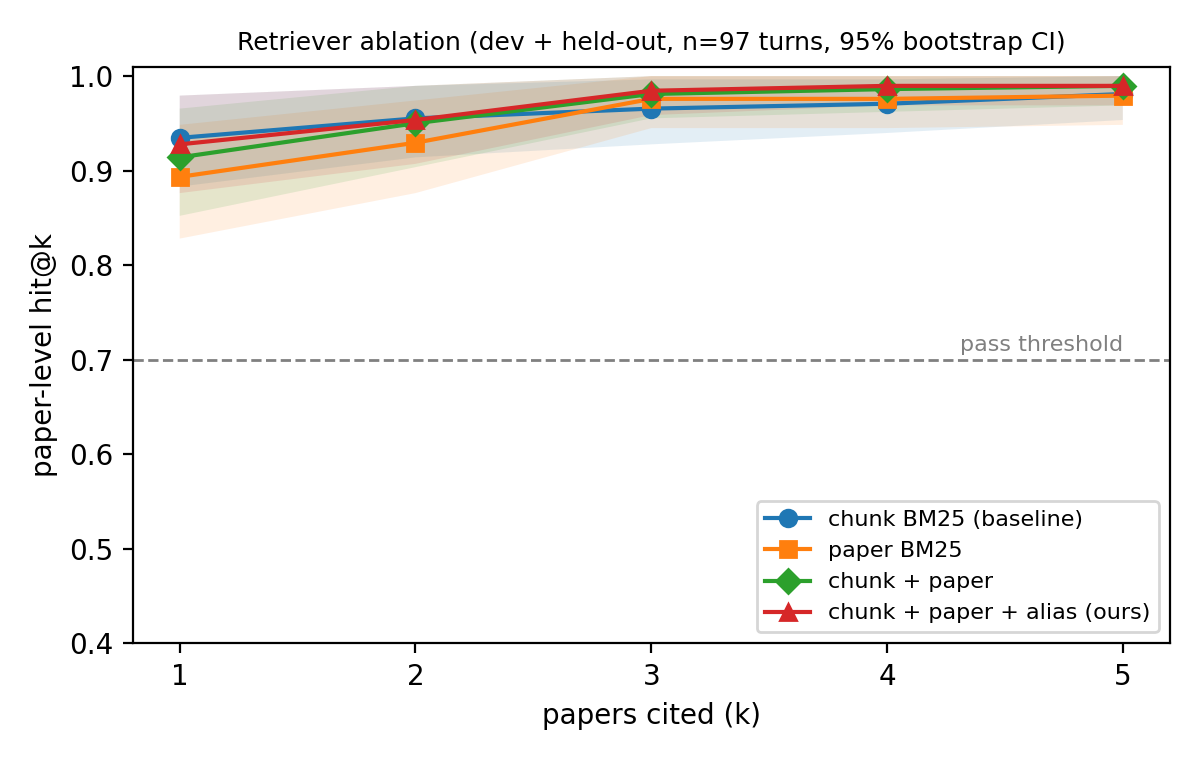
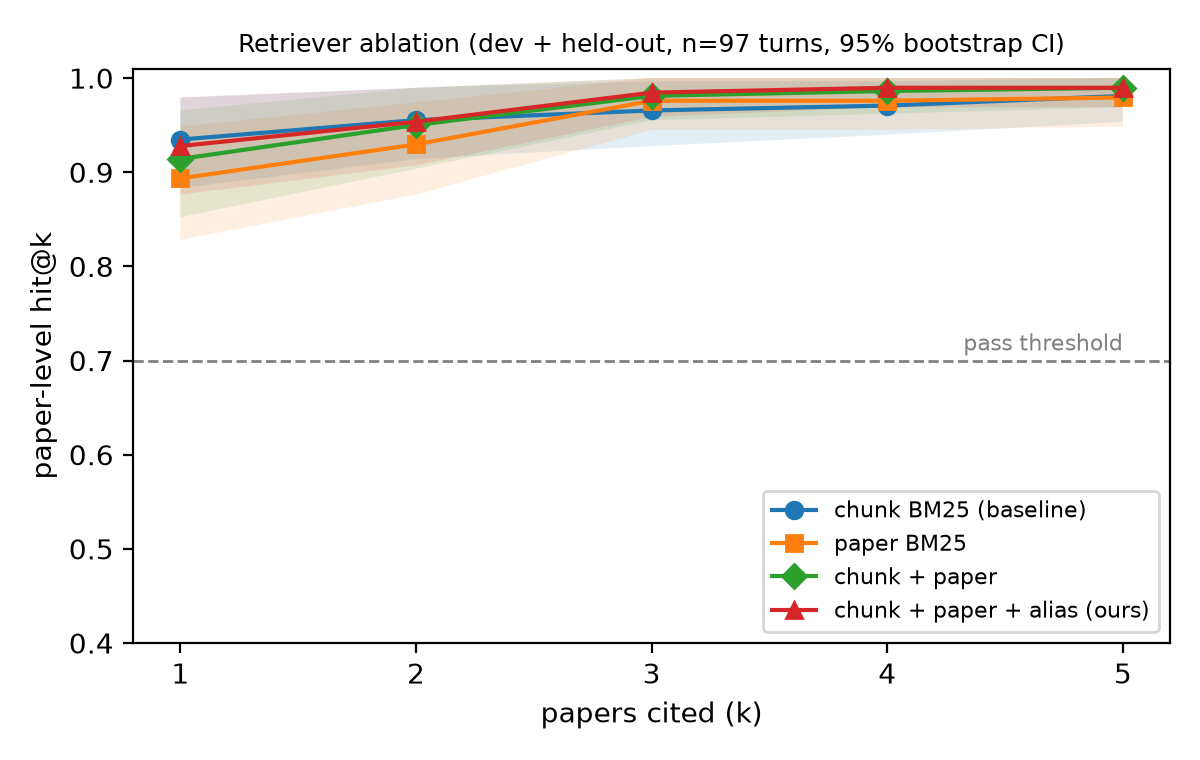
Updated env and added user_id to _chat() method history logging

diff --git a/ta_bot.py b/ta_bot.py
@@ -673,7 +673,7 @@ class TABot:
 
     def _chat(self, session_id: str, user_id: str, message: str) -> dict:
         message = (message or "").strip()
-        history = self._sessions[session_id]
+        history = self._sessions[(user_id, session_id)]
         with self._lock:
             self._update_memory(user_id, message)
         facts = self.get_memory(user_id)
